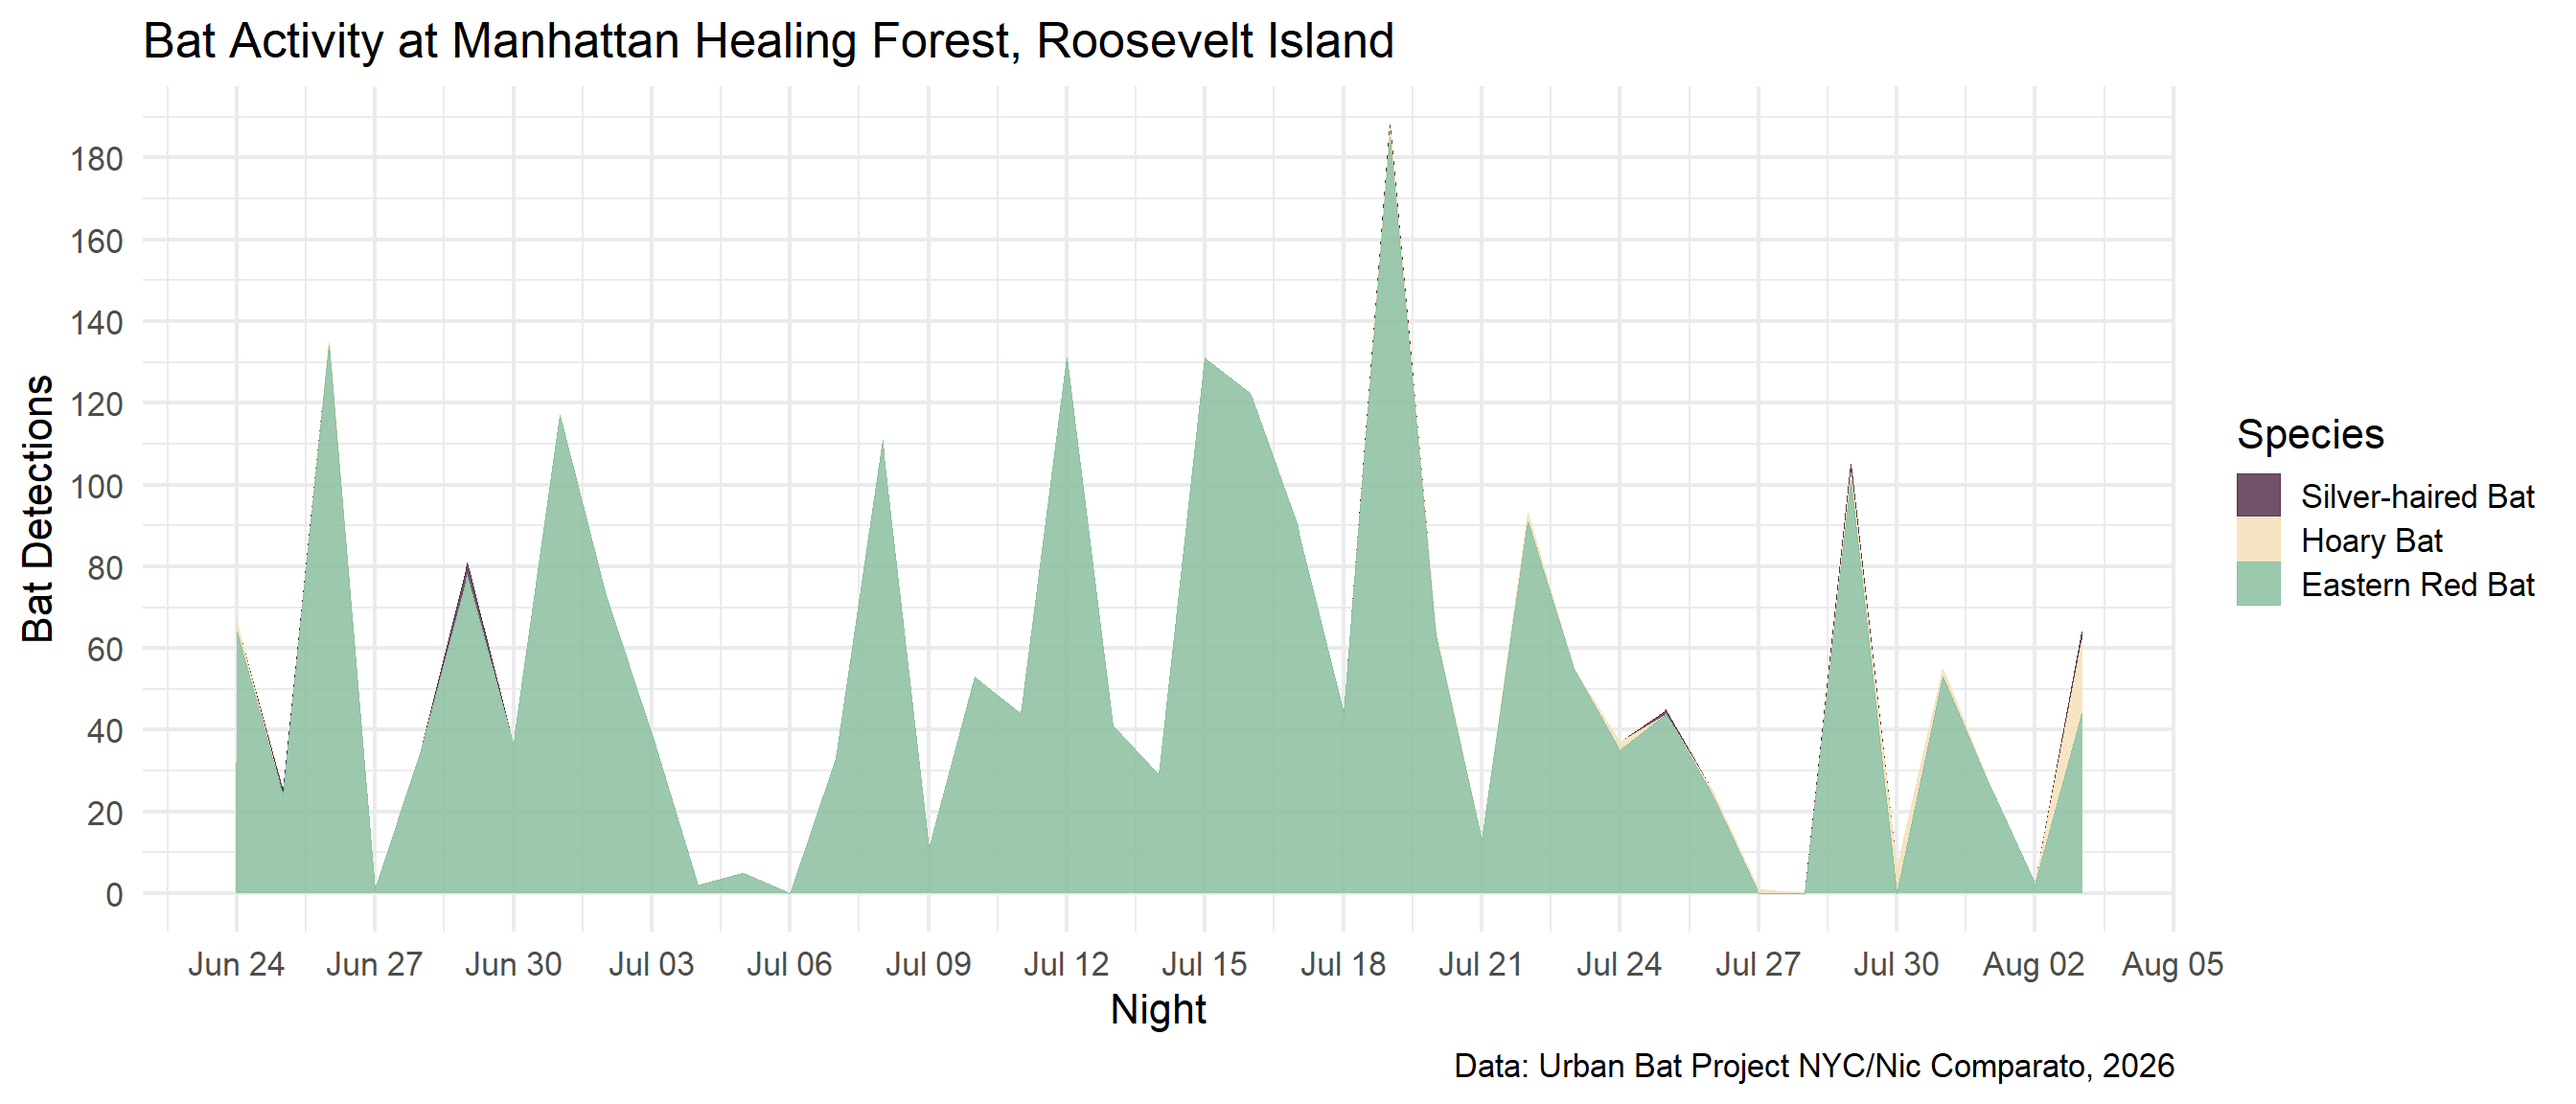
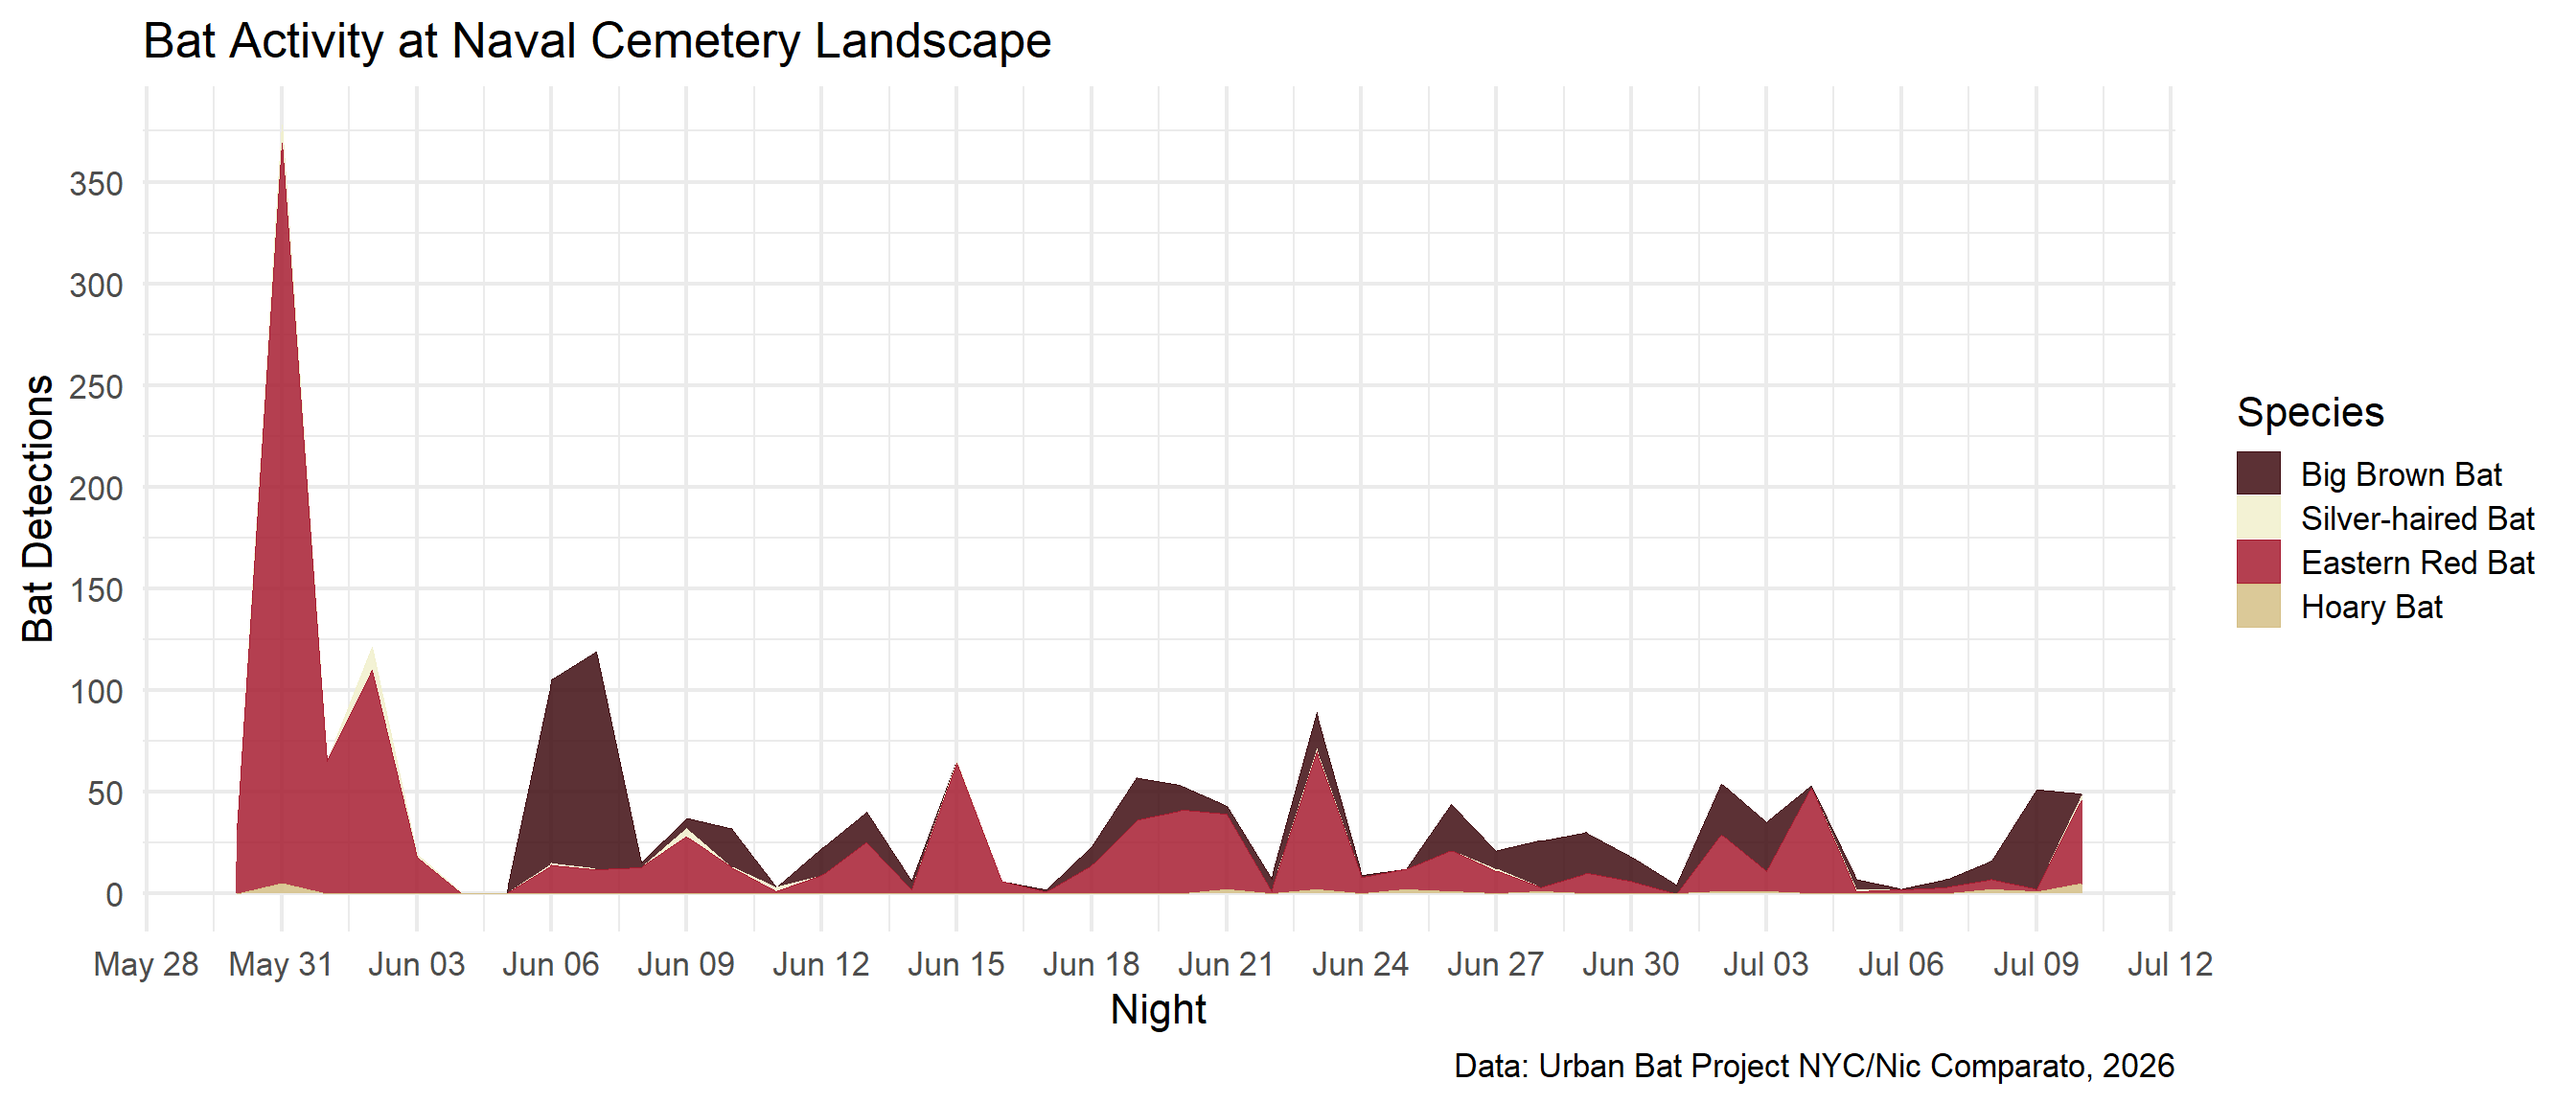
Built site for gh-pages

diff --git a/Naval Cemetery Landscape.html b/Naval Cemetery Landscape.html
@@ -8,7 +8,7 @@
 
 <meta name="author" content="Nic Comparato">
 
-<title>Survey Site: Roosevelt Island – Urban Bat Project NYC</title>
+<title>Greenway Botanical Garden at the Naval Cemetery Landscape - Williamsburg, BK – Urban Bat Project NYC</title>
 <style>
 /* Default styles provided by pandoc.
 ** See https://pandoc.org/MANUAL.html#variables-for-html for config info.
@@ -87,7 +87,7 @@ ul.task-list li input[type="checkbox"] {
 
 <header id="title-block-header" class="quarto-title-block default">
 <div class="quarto-title">
-<h1 class="title">Survey Site: Roosevelt Island</h1>
+<h1 class="title">Greenway Botanical Garden at the Naval Cemetery Landscape - Williamsburg, BK</h1>
 </div>
 
 
@@ -110,6 +110,7 @@ ul.task-list li input[type="checkbox"] {
 </header>
 
 
+<p>The graph below displays bat activity recorded at the Botanical Garden at Naval Cemetery Landscape in Williamsburg, Brooklyn. This is our second year working with the Brooklyn Greenway Initiative at this site, with this year’s surveys beginning on May 29, 2026. This data was <strong>last updated July 11, 2026</strong>. The graph displays the survey nights in chronological order from left to right (x-axis) and and the number of bats detected each night are represented by the vertical peaks and valleys (y-axis).</p>
 <div class="cell page-columns page-full">
 <div class="cell-output-display page-columns page-full">
 <div class="page-columns page-full">
@@ -119,13 +120,25 @@ ul.task-list li input[type="checkbox"] {
 </div>
 </div>
 </div>
-<section id="about-eastern-red-bats" class="level3">
-<h3 class="anchored" data-anchor-id="about-eastern-red-bats">About Eastern Red Bats</h3>
-<p>The eastern red bat (<em>Lasiurus borealis</em>) is the most common bat in New York City and the species most frequently recorded on Roosevelt Island. This migratory bat is a fast flyer that’s well-adapted to open spaces. These traits, along with a high tolerance for light and noise pollution, make red bats more at home in urban environments than other bat species. Like birds, these bats migrate into the city each spring from their wintering grounds and migrate out in the mid-to-late fall.</p>
+<section id="big-brown-bats-and-eastern-red-bats-two-very-different-approaches-to-nyc" class="level3">
+<h3 class="anchored" data-anchor-id="big-brown-bats-and-eastern-red-bats-two-very-different-approaches-to-nyc">Big Brown Bats and Eastern Red Bats: Two Very Different Approaches to NYC</h3>
+<p>The two most commonly detected species at the Naval Cemetery Landscape are the <strong>eastern red bat</strong> (<em>Lasiurus borealis</em>) and <strong>big brown bat</strong> (<em>Eptesicus fuscus</em>). You can see by the alternating colors above that they regularly fluctuate in terms of who is more common.</p>
+<p>Eastern red bats are nomadic, migratory bats that spend the summer in NYC. They typically move to a new location every 1-2 days and are extremely flexible in their habitat requirements. Big brown bats, on the other hand, are very particular about finding the best quality habitat available. Once they’ve found a spot they like, they’ll make it their home until its time for them to hibernate in the winter.</p>
+<div style="display: flex; gap: 20px;">
+<div style="flex: 1; margin: 0;">
+<p><img src="LABO.jpg" class="img-fluid" style="width:100.0%"></p>
+<p><em>Eastern Red Bat</em></p>
+</div>
+<div style="flex: 1; margin: 0;">
+<p><img src="EPFU.png" class="img-fluid" style="width:100.0%"></p>
+<p><em>Big Brown Bat</em></p>
+</div>
+</div>
 </section>
-<section id="about-idig2learn-and-the-manhattan-healing-forest-our-community-partners-on-roosevelt-island" class="level3">
-<h3 class="anchored" data-anchor-id="about-idig2learn-and-the-manhattan-healing-forest-our-community-partners-on-roosevelt-island">About iDig2Learn and the Manhattan Healing Forest, our community partners on Roosevelt Island</h3>
-<p>Our community partner and liaison with the Roosevelt Island Operating Corporation is Christina Delfico, the main organizing force behind the Manhattan Healing Forest and the community nature initiative, <a href="https://www.idig2learn.org/">iDig2Learn</a>. The Manhattan Healing Forest is New York State’s first Miyawaki Method Pocket Forest. Roughly the size of a tennis&nbsp;court, it contains tight knit&nbsp;plantings of 1,500 native trees and shrubs in Southpoint Park.&nbsp;Forest funding partners&nbsp;<a href="https://www.sugiproject.com/forests/manhattan-healing-forest">SUGi</a>&nbsp;and leaders from the&nbsp;<a href="https://lenape.center/">Lenape Center</a>&nbsp;and Yakama Nation helped plant forty-seven native plant species in April 202. In addition to bats, this small forest corner of Roosevelt Island is also home to kestrels, hawks, falcons, Monarch&nbsp;butterflies and native bees.</p>
+<section id="about-the-brooklyn-greenway-initiative-and-the-botanical-garden-at-naval-cemetery-landscape" class="level3">
+<h3 class="anchored" data-anchor-id="about-the-brooklyn-greenway-initiative-and-the-botanical-garden-at-naval-cemetery-landscape">About the Brooklyn Greenway Initiative and the Botanical Garden at Naval Cemetery Landscape</h3>
+<p>Brooklyn Greenway Initiative is the team behind the restoration of Naval Cemetery Landscape. We began working with them in 2025 and they have been incredible partners in research. In 2026, we began offering bat walks at this location. From their website:</p>
+<p>Brooklyn Greenway Initiative built the Naval Cemetery Landscape (now called the Greenway Botanical Garden at the Naval Cemetery) in 2016 on the site of the former Naval Hospital Cemetery at the Brooklyn Navy Yard as a place for retreat and remembrance while honoring its rich layers of natural and cultural history. This site was designed as a native plant meadow and pollinator habitat, and provides visitors with an escape from urban life. Many rare birds and insects can be seen here. There are magnifying glasses on site and visitors are encouraged to bring their own binoculars to observe the bird species from the boardwalk</p>
 
 
 </section>
